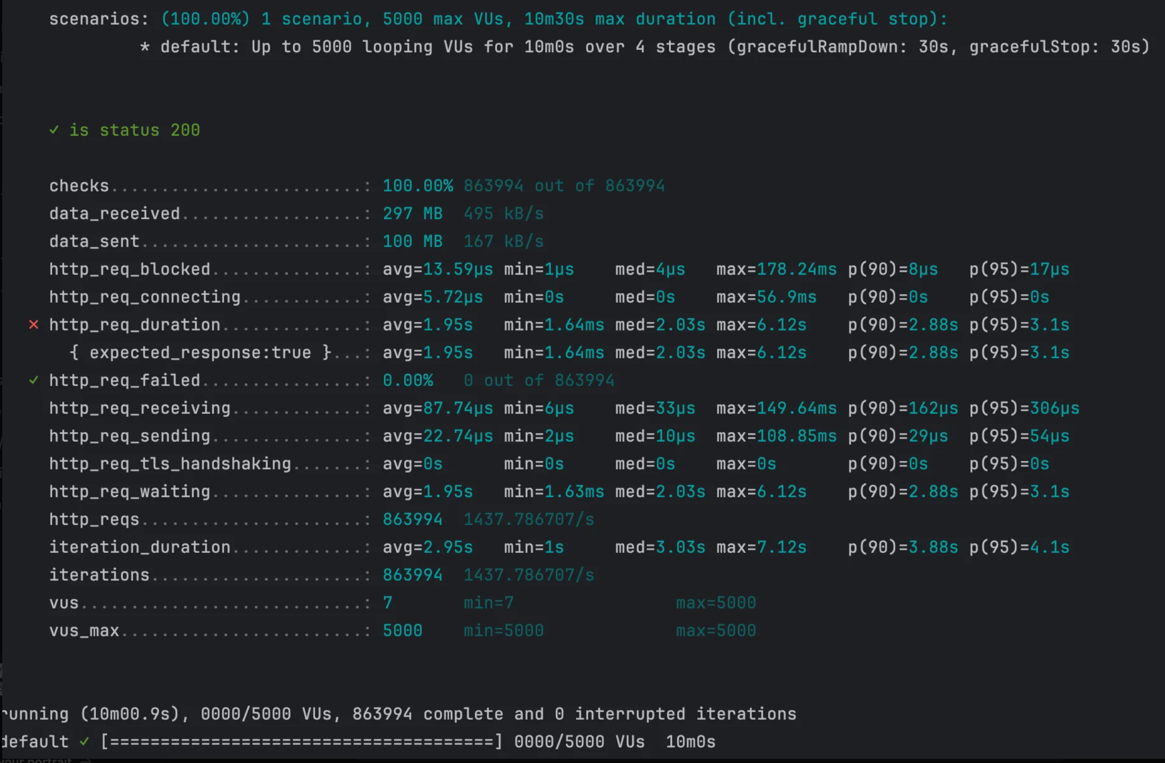
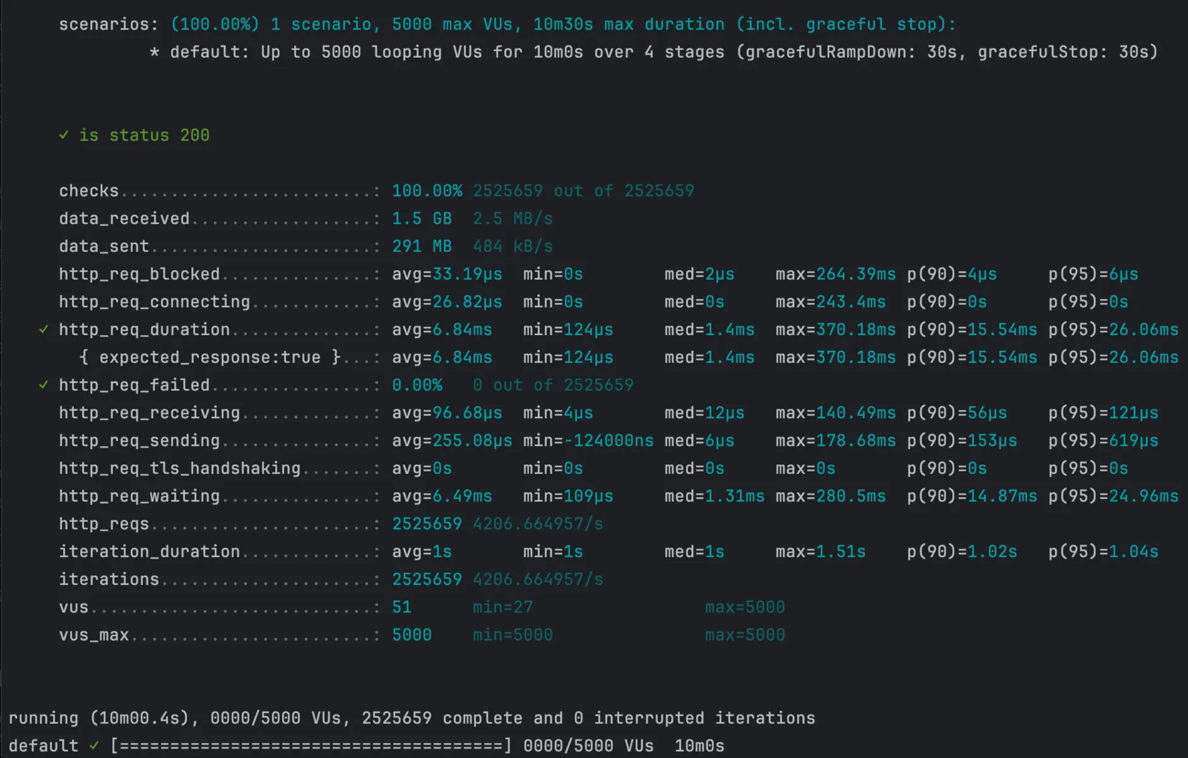
chore: 복합 인덱스 적용 후 성능 테스트 결과 README 반영
- 현재 `title`과 `genre`로 검색 기능을 제공하는 점을 고려해 복합 인덱스 적용
- 수정된 인덱스로 실행 결과 확인 후 README에 내용 반영

diff --git a/README.md b/README.md
@@ -76,10 +76,19 @@ Seat (N) -> Theater (1)
 
 ---
 # 성능 테스트
+> 5,000명 사용자의 최대 부하를 견딜 수 있는지 10분 동안 테스트
+- **DAU**: 5,000명
+- **목적:** 하루 **5,000명 사용자가 피크 트래픽(최대 10배)** 상황에서 API 성능 검증
+- **부하 패턴:** **2분 동안 5,000명까지 증가 → 5분 유지 → 2분 유지 → 1분 종료**
+- **성능 기준:** **상위 95% 요청이 응답 시간 200ms 이하, 실패율 1% 미만**
+- **테스트 대상:** 
+    - 전체 조회:`/api/v1/movies`
+    - 검색 조회: `/api/v1/movies?title='검색어'&genre='장르명'`
+
 ## 1. 영화 목록 전체 조회 API
 
+> JPQL로 쿼리 작성, Entity Graph 적용
 ### 쿼리
-- JPQL로 쿼리 작성, Entity Graph 적용
 ```sql
 Hibernate: 
     select
@@ -153,9 +162,8 @@ Hibernate:
 - **최대 응답 시간:** `35.61s` (일부 요청에서 매우 긴 응답 발생 ❌)
 
 ## 2. 검색 기능이 추가된 API (Index 적용 전)
-
+> 기존 전체 목록 조회에 검색 기능을 추가, QueryDSL로 동적 쿼리 작성
 ### 쿼리
-- QueryDSL로 쿼리 작성
 ```sql
 Hibernate: 
     select
@@ -208,36 +216,107 @@ Hibernate:
 | 1 | SIMPLE | m1\_0 | null | ALL | null | null | null | null | 503 | 1.11 | Using where; Using temporary; Using filesort |
 | 1 | SIMPLE | s1\_0 | null | ALL | null | null | null | null | 1501 | 100 | Using where; Using join buffer \(hash join\) |
 | 1 | SIMPLE | t1\_0 | null | eq\_ref | PRIMARY | PRIMARY | 4 | dev\_database.s1\_0.theater\_id | 1 | 100 | null |
-- **`movie` 테이블**
-  - 인덱스를 사용하지 않고 **풀 테이블 스캔 (`ALL`)**  발생
-  - 정렬 시 **임시 테이블(`Using temporary`) 및 파일 정렬(`Using filesort`)이 사용**되어 성능 저하
-- **`screening` 테이블**
-  - `movie_id` 컬럼에 적절한 인덱스가 없어 **풀 테이블 스캔 (`ALL`)** 발생
-  - 조인 시 **해시 조인(`Using join buffer (hash join)`)이 사용**되어 성능 저하
-- **`theater` 테이블**
-  - 기본 키(`PRIMARY KEY`)를 사용한 **`eq_ref` 조인 방식** 적용
+- **`movie` 테이블**: 인덱스를 사용하지 않고 **Full Table Scan (`ALL`)**  발생
+- **`screening` 테이블**: `movie_id` 컬럼에 적절한 인덱스가 없어 **Full Table Scan (`ALL`)** 발생
+- **`theater` 테이블**: 기본 키(`PRIMARY KEY`)를 사용한 PK 기반 단일 조회
 
 ### 부하 테스트 결과
 ![img.png](doc/img.png)
-- **평균 응답 시간 (`http_req_duration`)**: `1.95s`
-- **p(95) 응답 시간**: `3.1s`
+- **평균 응답 시간 (`http_req_duration`)**: `1.95s` 
+- **p(95) 응답 시간**: `3.1s` (목표 200ms 초과 ❌)
 - **최대 응답 시간**: `6.12s`
 - **실패율 (`http_req_failed`)**: `0.00%`
 - **초당 처리 요청 수 (`RPS`)**: `1437.79 req/s`
 - **총 요청 수**: `863,994`
 
 ## 3. Index 적용 후
-
 ### 적용한 인덱스 DDL
 ```jsx
-CREATE INDEX idx_movie_release_date ON movie (release_date);
-CREATE INDEX idx_screening_start_time ON screening (movie_id, start_time);
-CREATE INDEX idx_movie_title ON movie (title)
+-- 아래 두 가지 복합 인덱스를 생성 후 각각 차이를 확인
+-- 1. title, genre 순으로 복합 인덱스 생성
+CREATE INDEX idx_title_genre ON dev_database.movie (title, genre);
+-- 2. genre, title 순으로 복합 인덱스 생성
+CREATE INDEX idx_genre_title ON dev_database.movie (genre, title);
+
+-- 모든 경우에 screening 테이블의 풀 스캔을 막기 위해 movie_id에 인덱스 생성
+CREATE INDEX idx_screening_movie_id ON screening (movie_id);
 ```
 
-### 쿼리
+### 3-1. ❌ Like 연산자 미사용 
 
-**⭕ Like 연산자 사용**
+### 쿼리
+``` sql
+Hibernate: 
+    select
+        m1_0.id,
+        m1_0.content_rating,
+        m1_0.created_at,
+        m1_0.created_by,
+        m1_0.genre,
+        m1_0.modified_at,
+        m1_0.modified_by,
+        m1_0.release_date,
+        m1_0.runtime_minutes,
+        s1_0.movie_id,
+        s1_0.id,
+        s1_0.created_at,
+        s1_0.created_by,
+        s1_0.end_time,
+        s1_0.modified_at,
+        s1_0.modified_by,
+        s1_0.start_time,
+        s1_0.theater_id,
+        t1_0.id,
+        t1_0.created_at,
+        t1_0.created_by,
+        t1_0.modified_at,
+        t1_0.modified_by,
+        t1_0.name,
+        m1_0.thumbnail_url,
+        m1_0.title 
+    from
+        movie m1_0 
+    left join
+        screening s1_0 
+            on m1_0.id=s1_0.movie_id 
+    left join
+        theater t1_0 
+            on t1_0.id=s1_0.theater_id 
+    where
+        m1_0.title=? 
+        and m1_0.genre=? 
+    order by
+        m1_0.release_date desc,
+        s1_0.start_time
+```
+### 실행 계획
+
+- **복합 인덱스에서 `title`과 `genre`순서와 상관없이 동일한 실행 계획이 출력됨**
+
+| id | select\_type | table | partitions | type | possible\_keys | key | key\_len | ref | rows | filtered | Extra |
+| :--- | :--- | :--- | :--- | :--- | :--- | :--- | :--- | :--- | :--- | :--- | :--- |
+| 1 | SIMPLE | m1\_0 | null | ref | idx\_title\_genre | idx\_title\_genre | 603 | const,const | 1 | 100 | Using temporary; Using filesort |
+| 1 | SIMPLE | s1\_0 | null | ref | idx\_screening\_movie\_id | idx\_screening\_movie\_id | 4 | dev\_database.m1\_0.id | 2 | 100 | null |
+| 1 | SIMPLE | t1\_0 | null | eq\_ref | PRIMARY | PRIMARY | 4 | dev\_database.s1\_0.theater\_id | 1 | 100 | null |
+#### 📌 실행 계획 분석
+- `movie` 테이블: title + genre 인덱스 사용, 1건 조회 (✅ 최적화됨)
+- `screening` 테이블: movie_id 인덱스 사용, 2건 조회 (✅ 최적화됨)
+- `theater` 테이블: 기본키 검색, 1건 조회 (✅ 완벽 최적화)
+### 부하 테스트 결과
+![img_2.png](doc/img_2.png)
+- **평균 응답 시간** (`http_req_duration`): 595.59ms 
+- **p(95) 응답 시간**: `1.3s` 
+- **최대 응답 시간**: `3.29s` 
+- 실패율 (`http_req_failed`): `0.00%`
+- 초당 처리 요청 수 (`RPS`): `2659.89 req/s`
+- 총 요청 수: `1,598,863`
+- **✅ 평균 응답 속도가 69% 이상 감소하여 성능이 크게 개선**
+- **✅ 처리량(RPS)과 총 요청 수도 약 85% 증가** 
+- **❌ 아직 p(95)가 1.3s로 목표(200ms)보다 높지만, 인덱스 사용 전보다 58% 감소**
+
+### 3-2. ⭕ Like 연산자 사용
+
+### 쿼리
 ```sql
 Hibernate: 
     select
@@ -284,105 +363,49 @@ Hibernate:
         
 ```
 
-**❌ Like 연산자 미사용**
-``` sql
-Hibernate: 
-    select
-        m1_0.id,
-        m1_0.content_rating,
-        m1_0.created_at,
-        m1_0.created_by,
-        m1_0.genre,
-        m1_0.modified_at,
-        m1_0.modified_by,
-        m1_0.release_date,
-        m1_0.runtime_minutes,
-        s1_0.movie_id,
-        s1_0.id,
-        s1_0.created_at,
-        s1_0.created_by,
-        s1_0.end_time,
-        s1_0.modified_at,
-        s1_0.modified_by,
-        s1_0.start_time,
-        s1_0.theater_id,
-        t1_0.id,
-        t1_0.created_at,
-        t1_0.created_by,
-        t1_0.modified_at,
-        t1_0.modified_by,
-        t1_0.name,
-        m1_0.thumbnail_url,
-        m1_0.title 
-    from
-        movie m1_0 
-    left join
-        screening s1_0 
-            on m1_0.id=s1_0.movie_id 
-    left join
-        theater t1_0 
-            on t1_0.id=s1_0.theater_id 
-    where
-        m1_0.title=? 
-        and m1_0.genre=? 
-    order by
-        m1_0.release_date desc,
-        s1_0.start_time
-```
 
 ### 실행 계획
 
-**⭕ Like 연산자 사용**
+- **복합 인덱스에서 `title`과 `genre`순서와 상관없이 동일한 실행 계획이 출력됨**
 
 | id | select\_type | table | partitions | type | possible\_keys | key | key\_len | ref | rows | filtered | Extra |
-| --- | --- | --- | --- | --- | --- | --- | --- | --- | --- | --- | --- |
-| 1 | SIMPLE | m1\_0 | null | range | idx\_movie\_title | idx\_movie\_title | 602 | null | 1 | 10 | Using index condition; Using where; Using temporary; Using filesort |
-| 1 | SIMPLE | s1\_0 | null | ref | idx\_screening\_start\_time | idx\_screening\_start\_time | 4 | dev\_database.m1\_0.id | 2 | 100 | null |
-| 1 | SIMPLE | t1\_0 | null | eq\_ref | PRIMARY | PRIMARY | 4 | dev\_database.s1\_0.theater\_id | 1 | 100 | null |
-- **`movie` 테이블**
-  - **인덱스(`idx_movie_title`) 활용 (`range` 검색)**
-  - **임시 테이블(`Using temporary`) 및 파일 정렬(`Using filesort`) 발생**
-- **`screening` 테이블**
-  - **`movie_id` 기반 `ref` 검색  → 인덱스(`idx_screening_start_time`) 정상 적용**
-- **`theater` 테이블**
-  - 기본 키(`PRIMARY KEY`)를 사용한 **`eq_ref` 조인 방식** 적용
+   | :--- | :--- | :--- | :--- | :--- | :--- | :--- | :--- | :--- | :--- | :--- | :--- |
+   | 1 | SIMPLE | m1\_0 | null | range | idx\_title\_genre | idx\_title\_genre | 603 | null | 1 | 100 | Using index condition; Using temporary; Using filesort |
+   | 1 | SIMPLE | s1\_0 | null | ref | idx\_screening\_movie\_id | idx\_screening\_movie\_id | 4 | dev\_database.m1\_0.id | 2 | 100 | null |
+   | 1 | SIMPLE | t1\_0 | null | eq\_ref | PRIMARY | PRIMARY | 4 | dev\_database.s1\_0.theater\_id | 1 | 100 | null |
 
-**❌ Like 연산자 미사용**
+#### 📌 실행 계획 분석
 
-| id | select\_type | table | partitions | type | possible\_keys | key | key\_len | ref | rows | filtered | Extra |
-| --- | --- | --- | --- | --- | --- | --- | --- | --- | --- | --- | --- |
-| 1 | SIMPLE | m1\_0 | null | ref | idx\_movie\_title | idx\_movie\_title | 602 | const | 1 | 10 | Using where; Using temporary; Using filesort |
-| 1 | SIMPLE | s1\_0 | null | ref | idx\_screening\_start\_time | idx\_screening\_start\_time | 4 | dev\_database.m1\_0.id | 2 | 100 | null |
-| 1 | SIMPLE | t1\_0 | null | eq\_ref | PRIMARY | PRIMARY | 4 | dev\_database.s1\_0.theater\_id | 1 | 100 | null |
-- **`movie` 테이블**
-  - **접근 방식 변경:** `range` → `ref`
-  - **`ref` 값 변경:** `null` → `const`
+- **`movie` 테이블에서 `type = range` 사용** → ⚠ **인덱스를 활용한 범위 검색이 적용됨**
+- **`key = idx_title_genre (title, genre)`** → ✅ **복합 인덱스를 활용하여 검색 진행됨**
+- **`Using index condition`이 발생** → ⚠ **인덱스에서 일부 필터링을 수행했지만, 전체 필터링이 인덱스에서 해결되지 않았음**
+  - 일부 필터링은 인덱스에서 수행되었고, 나머지는 테이블 데이터를 조회하여 처리됨
+  - 옵티마이저가 인덱스를 최적화하여 **Full Table Scan을 방지**한 것으로 보임
+
+#### 📌 추가 최적화 가능성
+
+- `title` 또는 `genre` 단독 검색이 자주 발생할 가능성이 있다면, 단독 인덱스 추가 고려
+- **`genre` 단독 인덱스 (`idx_genre`) 추가**
+  - ✅ `WHERE genre = 'Action'`과 같은 단독 검색에서 범위 검색(`range`)이 아닌 **인덱스 검색(`ref`) 적용 가능**
+- **`title` 단독 인덱스 (`idx_title`) 추가**
+  - ❌ 일반 B-TREE 인덱스(`idx_title`)를 추가해도 `LIKE '%검색어%'` 검색에는 미적용
+  - ✅ `FULLTEXT INDEX`를 적용해 `LIKE '%검색어%'` 검색 최적화 고려 가능
 
 ### 부하 테스트 결과
 
-**⭕ Like 연산자 사용**
 ![img_1.png](doc/img_1.png)
-- **평균 응답 시간 (`http_req_duration`)**: `1.24s` **(인덱스 적용 전과 비교했을 때 36.4% 감소 ✅)**
-- **p(95) 응답 시간**: `2.43s` **(21.6% 감소 ✅)**
-- **최대 응답 시간**: `5.25s` **(14.2% 감소 ✅)**
+- **평균 응답 시간 (`http_req_duration`)**: `1.24s`
+- **p(95) 응답 시간**: `2.43s` 
+- **최대 응답 시간**: `5.25s` 
 - **실패율 (`http_req_failed`)**: `0.00%`
-- **초당 처리 요청 수 (`RPS`)**: `1895.07 req/s` **(31.7% 증가 ✅)**
+- **초당 처리 요청 수 (`RPS`)**: `1895.07 req/s` 
 - **총 요청 수**: `1,134,866`
-
-**❌ Like 연산자 미사용**
-![img_2.png](doc/img_2.png)
-- **평균 응답 시간 (`http_req_duration`)**: `1.93s` **(like 사용할 때 보다 증가 ⬆)**
-- **p(95) 응답 시간**: `3.14s` **(증가 ⬆)**
-- **최대 응답 시간**: `6.27s` **(증가 ⬆)**
-- **실패율 (`http_req_failed`)**: `0.00%` **(성공)**
-- **초당 요청 처리량 (`RPS`)**: `1449.83 req/s` **(감소 ⬇)**
-- **총 요청 수**: `871,069` **(감소 ⬇)**
-
+- **⚠ Like 연산자 미사용 결과와 비교했을 때 전반적인 성능 저하가 나타남**
 
 # 4. 로컬 Caching 적용 후
 
 - Like 연산자 사용 + index 적용
-- 
+
 ### 캐싱한 데이터의 종류
 - `title-genre` 조합에 해당하는 `List<MovieResponseDto>` 데이터를 캐싱
 - **Key:** `title` + `genre` → `"in-SCI_FI"` 같은 조합 (Query Parameter 기반)
@@ -392,7 +415,7 @@ Hibernate:
 - 쿼리 실행 계획은 이전과 동일
 
 ### 부하 테스트 결과
-![img.png](img.png)
+![img.png](doc/img.png)
 
 - **평균 응답 시간 (`http_req_duration`)**: `6.84ms` (**캐싱 적용 전보다 ⏬ 99.64% 감소**)
 - **p(95) 응답 시간**: `26.06ms` (**⏬ 99.2% 감소**)
@@ -406,7 +429,7 @@ Hibernate:
 - 캐싱한 데이터 종류, 실행 계획은 이전과 동일
 
 ### 부하 테스트 결과
-![img_1.png](img_1.png)
+![img_1.png](doc/img_1.png)
 - **평균 응답 시간 (`http_req_duration`)**: `13.7ms` **(로컬 캐싱 적용 결과 보다는 느려짐 ⬇)**
 - **p(95) 응답 시간**: `53.58ms`
 - **최대 응답 시간**: `733.1ms`
